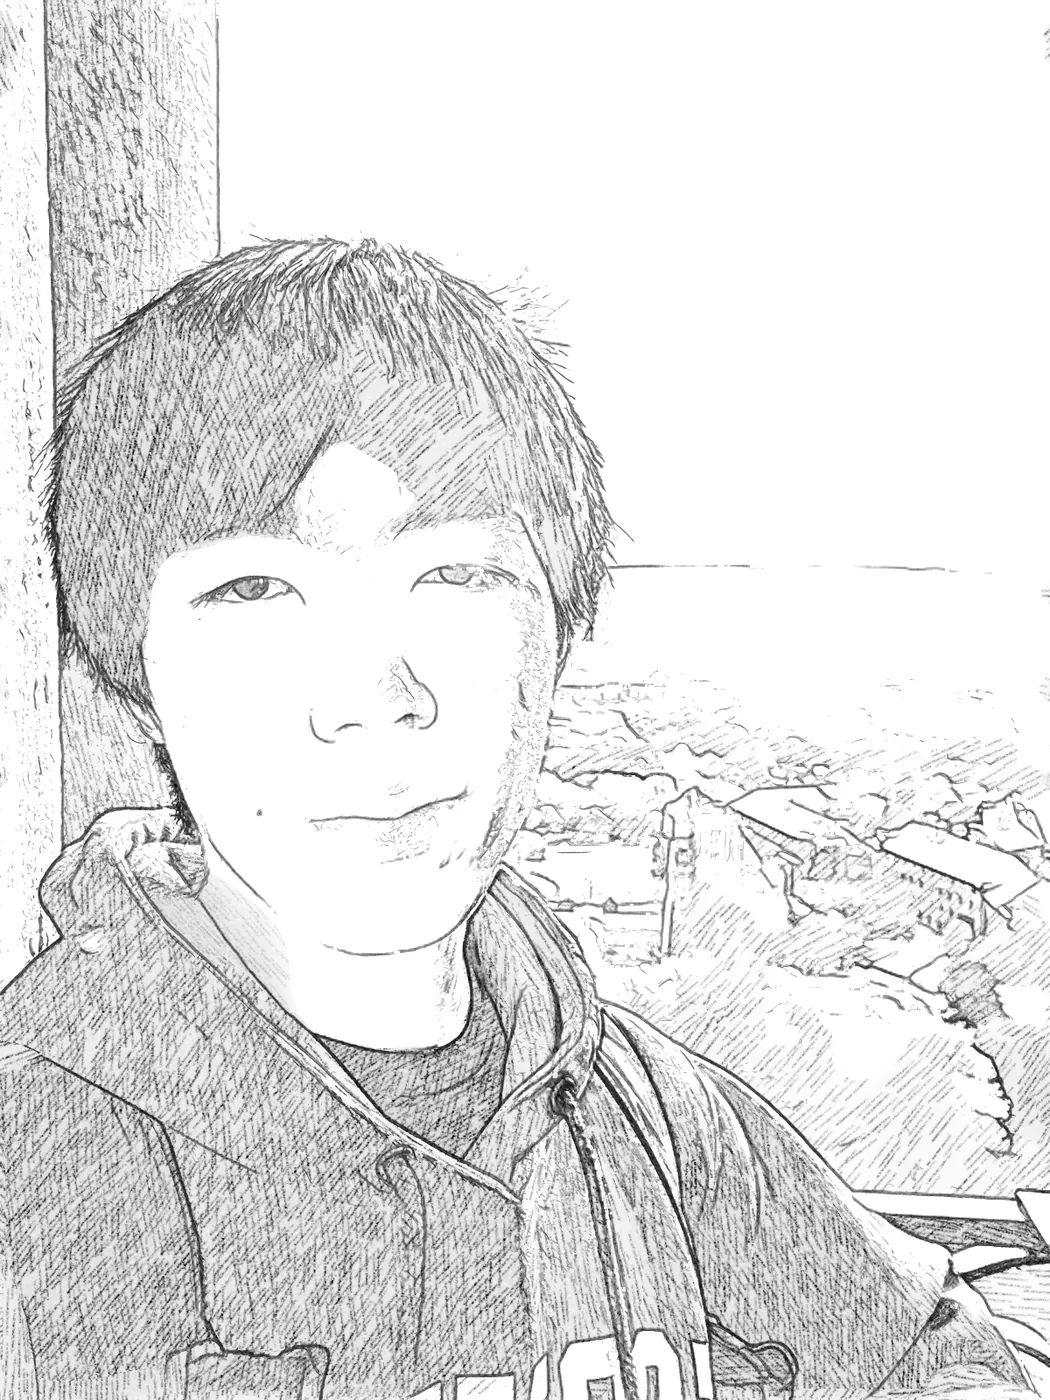
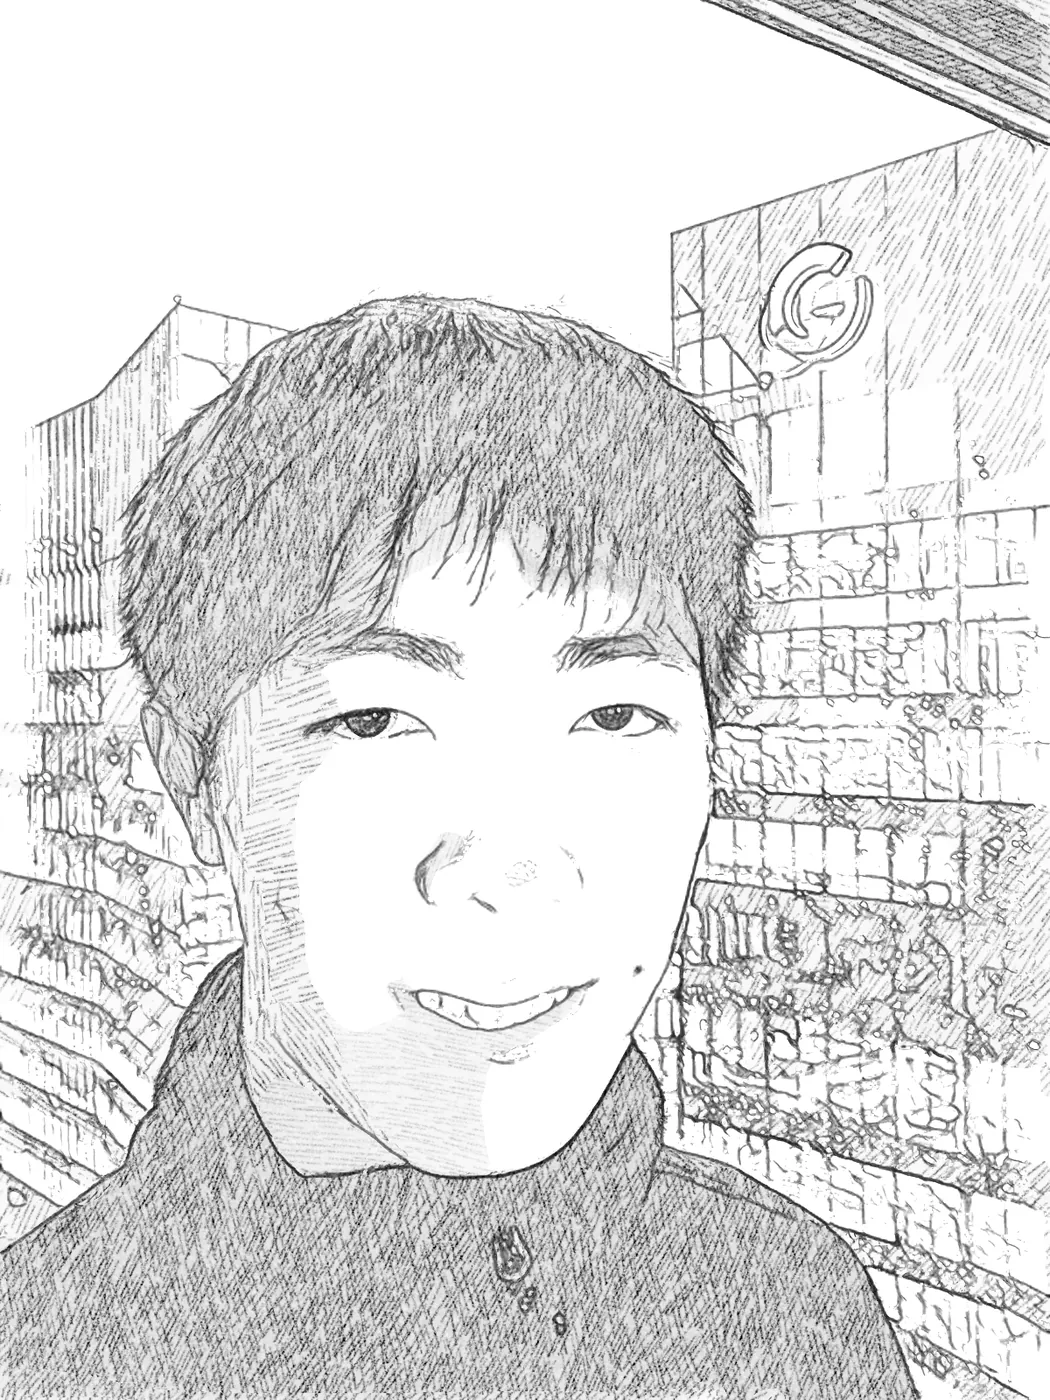
Several pictures at a stop, research figures, and a coffee to end About
A stop can now hold more than one picture: the first stands beside the
line, the rest are turned to on the open page (thumbnails, or up/down).
Plots and screenshots stand as crisp sheets in graphite with their own
colours underneath.

- Research: a figure from each project leads its stop
- SASH: the Six Hops demo screen, the team and the prize
- The Hive: three screenshots of the simulator
- About: the portrait is the selfie in front of Google, mirrored so the
  sign reads right; "Say hello" becomes "Grab me a coffee"
- Drop the GAN tag from the lake-effect project

diff --git a/src/sketchbook/Sketchbook.tsx b/src/sketchbook/Sketchbook.tsx
@@ -1,5 +1,5 @@
 import { useCallback, useEffect, useLayoutEffect, useRef, useState, type CSSProperties, type PointerEvent } from 'react';
-import { ownerName, sectionOrder, sections, type SectionId } from './content';
+import { ownerName, pictures, sectionOrder, sections, type SectionId } from './content';
 import { Engine, lineRange, lineView, type Mode, type Rect } from './engine';
 import './sketchbook.css';
 
@@ -20,6 +20,7 @@ export default function Sketchbook() {
   const [open, setOpen] = useState(false);
   const [walked, setWalked] = useState(false);
   const [travelling, setTravelling] = useState(false);
+  const [turned, setTurned] = useState({ at: '', n: 0 });   // which picture of a stop is showing; every stop opens on its first
 
   useEffect(() => {
     let started = false, moved = false, shown: SectionId = 'about';
@@ -56,6 +57,9 @@ export default function Sketchbook() {
 
   const sec = sections[section], stops = sec.stops, at = Math.min(stop, stops.length - 1), current = stops[at];
   const inPath = mode === 'path';
+  const arts = current ? pictures(current) : [], here = `${section}:${at}`;
+  const pic = turned.at === here ? Math.min(turned.n, arts.length - 1) : 0, art = arts[pic];
+  const turn = (n: number) => setTurned({ at: here, n: (n + arts.length) % arts.length });
 
   // Leave this stop, walk the line, and arrive in another.
   const travel = useCallback(async (to: number) => {
@@ -72,14 +76,19 @@ export default function Sketchbook() {
     const key = (ev: KeyboardEvent) => {
       const e = engine.current; if (!e) return;
       if (ev.key === 'Escape') { if (open) setOpen(false); else void e.close(); return; }
-      if (open) { if (ev.key === 'ArrowRight') void travel(Math.min(stop, stops.length - 1) + 1); if (ev.key === 'ArrowLeft' && stop > 0) void travel(stop - 1); return; }
+      if (open) {
+        if (ev.key === 'ArrowRight') void travel(Math.min(stop, stops.length - 1) + 1);
+        if (ev.key === 'ArrowLeft' && stop > 0) void travel(stop - 1);
+        if (arts.length > 1 && (ev.key === 'ArrowDown' || ev.key === 'ArrowUp')) { ev.preventDefault(); turn(pic + (ev.key === 'ArrowDown' ? 1 : -1)); }
+        return;
+      }
       if (e.mode !== 'path') return;
       const step: Record<string, number> = { ArrowDown: 1.6, ArrowUp: -1.6, PageDown: 6, PageUp: -6, ' ': 6, Home: -1e3, End: 1e3 };
       if (ev.key in step) { ev.preventDefault(); e.walkBy(step[ev.key]); }
     };
     addEventListener('keydown', key);
     return () => removeEventListener('keydown', key);
-  }, [open, stop, stops.length, travel]);
+  });
 
   // The page grows out of the drawing that stood beside the line.
   useLayoutEffect(() => {
@@ -92,6 +101,9 @@ export default function Sketchbook() {
     const id = requestAnimationFrame(() => requestAnimationFrame(() => { fig.style.transition = ''; fig.style.transform = ''; }));
     return () => cancelAnimationFrame(id);
   }, [open, stop, section]);
+
+  // Turning to another picture of the same stop: its strip of colour starts in the same place.
+  useLayoutEffect(() => { band(26); }, [pic]);   // eslint-disable-line react-hooks/exhaustive-deps
 
   // A strip of the photograph through the drawing, parallel to the pencil strokes.
   function band(half: number, animate = false) {
@@ -147,12 +159,26 @@ export default function Sketchbook() {
       </div>
 
       <aside className="sb-plate" aria-hidden={!open}>
-        <figure ref={figure} data-photo={!!current?.art?.photo} data-sheet={!!current?.art?.sheet} style={{ '--ar': current?.art?.ratio ?? 0.75 } as CSSProperties}
-          onPointerMove={move} onPointerDown={hold} onPointerUp={release} onPointerCancel={release}>
-          {current?.art
-            ? <><img src={current.art.sketch} alt={`Pencil drawing: ${current.title}`} draggable={false} />{current.art.photo && <img ref={photo} className="sb-photo" src={current.art.photo} alt="" draggable={false} />}</>
-            : <div className="sb-blank"><b>{number(at)}</b><span className="sb-mono">Not yet drawn</span></div>}
-        </figure>
+        <div className="sb-view" data-many={arts.length > 1}>
+          <figure ref={figure} data-photo={!!art?.photo} data-sheet={!!art?.sheet} style={{ '--ar': art?.ratio ?? 0.75 } as CSSProperties}
+            onPointerMove={move} onPointerDown={hold} onPointerUp={release} onPointerCancel={release}>
+            {art
+              ? <><img key={art.sketch} src={art.sketch} alt={`${art.sheet ? 'Figure' : 'Pencil drawing'}: ${art.caption ?? current.title}`} draggable={false} />
+                {art.photo && <img key={art.photo} ref={photo} className="sb-photo" src={art.photo} alt="" draggable={false} />}</>
+              : <div className="sb-blank"><b>{number(at)}</b><span className="sb-mono">Not yet drawn</span></div>}
+          </figure>
+          {arts.length > 1 && (
+            <div className="sb-pics">
+              <p className="sb-mono">{pic + 1} / {arts.length}{art?.caption ? ` · ${art.caption}` : ''}</p>
+              <div>
+                {arts.map((a, i) => (
+                  <button key={a.sketch} aria-label={`Picture ${i + 1}${a.caption ? `: ${a.caption}` : ''}`} aria-current={i === pic} data-sheet={!!a.sheet}
+                    style={{ '--ar': a.ratio } as CSSProperties} onClick={() => turn(i)}><img src={a.sketch} alt="" draggable={false} /></button>
+                ))}
+              </div>
+            </div>
+          )}
+        </div>
         {current && (
           <div className="sb-notes">
             <p className="sb-mono sb-no">No. {number(at)} / {sec.label}</p>
@@ -162,7 +188,7 @@ export default function Sketchbook() {
             {current.tags && <p className="sb-mono sb-tags">{current.tags.join(' · ')}</p>}
             {current.links && <p className="sb-links">{current.links.map(l => <a key={l.href} href={l.href} target={l.href.startsWith('mailto:') ? undefined : '_blank'} rel="noopener noreferrer">{l.label} <span aria-hidden="true">↗</span></a>)}</p>}
             <div className="sb-rule" />
-            {current.art?.photo && <p className="sb-mono sb-how">Move across the drawing. Hold to see the photograph.</p>}
+            {art?.photo && <p className="sb-mono sb-how">{art.sheet ? 'Move across the figure. Hold to see it in colour.' : 'Move across the drawing. Hold to see the photograph.'}</p>}
             <div className="sb-walk">
               {at > 0 && <button className="sb-mono" onClick={() => void travel(at - 1)}><span aria-hidden="true">←</span> {stops[at - 1].title}</button>}
               <button className="sb-mono sb-next" onClick={() => void travel(at + 1)}>{last ? 'Walk to the end of the line' : <>Next: {stops[at + 1].title}</>} <span aria-hidden="true">→</span></button>

diff --git a/src/sketchbook/content.ts b/src/sketchbook/content.ts
@@ -7,6 +7,7 @@ export interface Art {
   photo?: string;   // the photograph a pencil render was drawn from, same size, shown as a strip of colour
   ratio: number;    // width / height
   sheet?: boolean;  // a document page: stands with crisp edges instead of fading out like a drawing
+  caption?: string; // what this picture is, shown under it when a stop has several
 }
 
 export interface Stop {
@@ -15,7 +16,8 @@ export interface Stop {
   body: string[];
   tags?: string[];
   links?: { href: string; label: string }[];
-  art?: Art;        // stops without art stand as blank sheets until a drawing exists
+  art?: Art;        // the picture that stands beside the line; stops without one stand as blank sheets
+  more?: Art[];     // further pictures, turned to once the stop is open
 }
 
 export interface Section {
@@ -28,11 +30,15 @@ export interface Section {
 
 export type SectionId = 'about' | 'projects' | 'research' | 'resume';
 
-const plate = (name: string, ratio = 0.75): Art => ({
+const plate = (name: string, ratio = 0.75, caption?: string): Art => ({
   sketch: `/sketchbook/plates/${name}_s.webp`,
   photo: `/sketchbook/plates/${name}_p.webp`,
   ratio,
+  caption,
 });
+// A plot or a screenshot: shown whole, in graphite, with its own colours underneath.
+const figure = (name: string, ratio: number, caption?: string): Art => ({ ...plate(name, ratio, caption), sheet: true });
+export const pictures = (stop: Stop): Art[] => (stop.art ? [stop.art, ...(stop.more ?? [])] : []);
 
 const project = (title: string): Stop => {
   const p = projects.find(q => q.title === title)!;
@@ -48,10 +54,10 @@ const aboutStops: Stop[] = [
   { title: 'Where I am', meta: profile.location, body: [`I study ${profile.degree.toLowerCase()} at ${profile.school}. I'm in ${profile.location.replace('; the', ', and the')}.`], art: plate('tower') },
   { title: 'What I am looking for', meta: profile.availability, body: [about.current[1]], art: plate('window') },
   {
-    title: 'Say hello',
+    title: 'Grab me a coffee',
     meta: profile.email,
     body: [sentences(about.contact).slice(-1)[0]],
-    art: plate('hello'),
+    art: plate('coffee'),
     links: [
       { href: `mailto:${profile.email}`, label: profile.email },
       { href: profile.github, label: 'GitHub' },
@@ -71,9 +77,18 @@ const projectStops: Stop[] = [
     ],
     tags: ['TypeScript', 'three.js', 'Vite', 'Cloudflare Workers'],
     links: [{ href: 'https://thehive.boston/', label: 'See The Hive' }],
-    art: plate('hack', 0.667),
+    art: plate('hack', 0.667, 'At the hack'),
+    more: [
+      figure('hive1', 1.982, 'The simulator: scouting a site'),
+      figure('hive2', 1.987, 'Following a scout at night'),
+      figure('hive3', 1.962, 'A scout on its survey path'),
+    ],
   },
-  { ...project('SASH: Search Across Six Hops'), art: plate('sash') },
+  {
+    ...project('SASH: Search Across Six Hops'),
+    art: figure('sixhops', 1.957, 'The demo screen'),
+    more: [plate('sash_team1', 0.75, 'The team, with the prize'), plate('sash_team2', 0.75, 'The team, with the prize'), plate('sash', 0.75, 'The prize')],
+  },
   {
     title: 'Pencil sketches from photographs',
     meta: 'Personal project / 2026',
@@ -97,9 +112,9 @@ const projectStops: Stop[] = [
 
 // Research: work done with a lab or a research group.
 const researchStops: Stop[] = [
-  project('LLM Prediction Markets'),
-  { ...project('Irrigation Data Assimilation'), art: plate('irrigation') },
-  { ...project('Lake-Effect Snow Forecasting'), art: plate('snow', 1.333) },
+  { ...project('LLM Prediction Markets'), art: figure('drift', 1.437, 'Mean forecast as the evidence arrives') },
+  { ...project('Irrigation Data Assimilation'), art: figure('particles', 1.423, 'Soil moisture and inferred irrigation'), more: [plate('irrigation', 0.75, 'Working notes')] },
+  { ...project('Lake-Effect Snow Forecasting'), art: figure('scatter', 1.6, 'Wind speed against temperature'), more: [plate('snow', 1.333, 'First snow on campus')] },
 ];
 
 // Résumé: the two documents, nothing else. Everything in them is already on the other lines.

diff --git a/src/sketchbook/engine.ts b/src/sketchbook/engine.ts
@@ -16,7 +16,7 @@ export interface Callbacks {
 
 type Vec = { x: number; y: number; z: number };
 type Screen = { x: number; y: number; z: number; s: number };
-interface Card { sketch: HTMLCanvasElement; photo?: HTMLCanvasElement; far: HTMLCanvasElement; farPhoto?: HTMLCanvasElement; ratio: number; open: number }
+interface Card { sketch: HTMLCanvasElement; photo?: HTMLCanvasElement; far: HTMLCanvasElement; farPhoto?: HTMLCanvasElement; ratio: number; open: number; behind: number }
 
 // A third-size copy, drawn instead of the full one while the stop is still far off.
 function shrink(src: HTMLCanvasElement) {
@@ -24,8 +24,8 @@ function shrink(src: HTMLCanvasElement) {
   const g = c.getContext('2d')!; g.imageSmoothingQuality = 'high'; g.drawImage(src, 0, 0, c.width, c.height);
   return c;
 }
-function makeCard(sketch: HTMLCanvasElement, ratio: number, photo?: HTMLCanvasElement): Card {
-  return { sketch, photo, far: shrink(sketch), farPhoto: photo && shrink(photo), ratio, open: 0 };
+function makeCard(sketch: HTMLCanvasElement, ratio: number, photo?: HTMLCanvasElement, behind = 0): Card {
+  return { sketch, photo, far: shrink(sketch), farPhoto: photo && shrink(photo), ratio, open: 0, behind };
 }
 
 const GRAPHITE = '38,38,42';
@@ -206,7 +206,8 @@ export class Engine {
       const art = stop.art, h = Math.round(980 * Math.min(1, 1 / art.ratio)), w = Math.round(h * art.ratio);
       this.cards.set(key, makeCard(blankSheet(i, this.sections[id].color), art.ratio));   // until the drawing arrives
       void Promise.all([loadImage(art.sketch), art.photo ? loadImage(art.photo) : null]).then(([s, p]) => {
-        this.cards.set(key, makeCard(art.sheet ? sheet(s, w, h) : feather(s, w, h, 11 + i), art.ratio, p ? feather(p, w, h, 11 + i) : undefined));
+        const stand = (im: HTMLImageElement) => (art.sheet ? sheet(im, w, h) : feather(im, w, h, 11 + i));
+        this.cards.set(key, makeCard(stand(s), art.ratio, p ? stand(p) : undefined, art.sheet ? stop.more?.length ?? 0 : 0));   // a soft-edged drawing has no sheet to stack
         this.dirty = true;
       });
     });
@@ -442,6 +443,11 @@ export class Engine {
       const iw = img.width, ih = img.height, lift = card.open * 0.05 * sc;
       g.save();
       g.transform(w / iw, 0, (s.b.x - s.t.x) / ih, (s.b.y - s.t.y) / ih, s.t.x - w / 2, s.t.y - lift);
+      for (let k = Math.min(card.behind, 2); k > 0; k--) {   // more pictures at this stop: their sheets show behind the first
+        const dx = -s.side * k * iw * 0.045, dy = -k * ih * 0.04;
+        g.fillStyle = '#fff'; g.fillRect(dx, dy, iw, ih);
+        g.strokeStyle = `rgba(${GRAPHITE},.42)`; g.lineWidth = iw * 0.006; g.strokeRect(dx, dy, iw, ih);
+      }
       g.drawImage(img, 0, 0);
       if (pic) {   // one streak of the photograph, parallel to the pencil strokes
         const half = iw * (0.014 + 0.075 * card.open), cx = iw * (0.5 + 0.1 * Math.sin(s.i * 2.4)), dx = Math.cos(50 * Math.PI / 180), dy = -Math.sin(50 * Math.PI / 180), R = ih;
@@ -462,7 +468,7 @@ export class Engine {
         const tw = g.measureText(label).width;
         this.rects.push({ key: s.key, rect: { x: (inner > 0 ? x : x - tw) - 8, y: s.b.y - 0.48 * cs, w: tw + 16, h: 0.56 * cs } });
         g.font = `500 ${Math.max(0.06 * cs, 7)}px "IBM Plex Mono", monospace`;
-        g.fillStyle = sec.color; g.fillText(s.stop ? `NO. ${String(s.i + 1).padStart(2, '0')}` : 'THE END OF THE LINE', x, s.b.y - 0.37 * cs);
+        g.fillStyle = sec.color; g.fillText(s.stop ? `NO. ${String(s.i + 1).padStart(2, '0')}${s.stop.more?.length ? ` · ${s.stop.more.length + 1} PICTURES` : ''}` : 'THE END OF THE LINE', x, s.b.y - 0.37 * cs);
         if (hot) { const tw = Math.min(0.9 * cs, 120); g.fillRect(inner > 0 ? x : x - tw, s.b.y - 0.09 * cs, tw, Math.max(1.5, 0.012 * cs)); }
       }
     }

diff --git a/src/sketchbook/sketchbook.css b/src/sketchbook/sketchbook.css
@@ -62,12 +62,23 @@
 .sb-plate { position: absolute; inset: 0; z-index: 3; background: #fff; display: grid; grid-template-columns: minmax(0, 1.1fr) minmax(320px, .9fr);
             opacity: 0; visibility: hidden; transition: opacity .3s, visibility 0s .3s; overflow: hidden auto; }
 .sb[data-open="true"] .sb-plate { opacity: 1; visibility: visible; transition: opacity .35s; }
-.sb-plate figure { position: relative; margin: 0; align-self: center; justify-self: center; width: min(90%, calc(min(86vh, 1100px) * var(--ar))); aspect-ratio: var(--ar);
+.sb-view { align-self: center; min-width: 0; display: grid; justify-items: center; gap: 16px; }
+.sb-plate figure { position: relative; margin: 0; width: min(90%, calc(min(86vh, 1100px) * var(--ar))); aspect-ratio: var(--ar);
                    transition: transform .65s cubic-bezier(.2, .75, .2, 1); will-change: transform; }
 .sb-plate figure[data-photo="true"] { cursor: crosshair; touch-action: none; }
 .sb-plate img { position: absolute; inset: 0; width: 100%; height: 100%; display: block; user-select: none; }
 .sb-plate figure[data-sheet="true"] { outline: 1.5px solid color-mix(in srgb, var(--graphite) 55%, #fff); }
 .sb-photo { clip-path: polygon(0 0, 0 0, 0 0, 0 0); }
+/* a stop with several pictures: the others wait underneath */
+.sb-view[data-many="true"] figure { width: min(90%, calc(min(70vh, 1100px) * var(--ar))); }
+.sb-pics { display: grid; justify-items: center; gap: 10px; max-width: 90%; }
+.sb-pics p { margin: 0; color: var(--soft); text-align: center; }
+.sb-pics div { display: flex; flex-wrap: wrap; justify-content: center; gap: 10px; }
+.sb .sb-pics button { position: relative; height: 58px; aspect-ratio: var(--ar); padding: 0; opacity: .55; border-bottom: 3px solid transparent; box-sizing: content-box; padding-bottom: 5px; transition: opacity .2s, border-color .2s; }
+.sb .sb-pics button:hover { opacity: 1; }
+.sb .sb-pics button[aria-current="true"] { opacity: 1; border-bottom-color: var(--line); }
+.sb-pics img { position: static; width: 100%; height: 100%; object-fit: cover; }
+.sb-pics button[data-sheet="true"] img { outline: 1px solid color-mix(in srgb, var(--graphite) 45%, #fff); }
 .sb-photo.sweep { transition: clip-path .55s cubic-bezier(.3, .7, .2, 1); }
 .sb-blank { position: absolute; inset: 0; display: grid; place-content: center; justify-items: center; gap: 18px; border: 1.5px solid color-mix(in srgb, var(--graphite) 55%, #fff);
             background: repeating-linear-gradient(-50deg, transparent 0 9px, rgba(38, 38, 42, .05) 9px 10px); }
@@ -94,7 +105,8 @@
 
 @media (max-width: 820px) {
   .sb-plate { grid-template-columns: 1fr; align-content: start; }
-  .sb-plate figure { width: min(86vw, 520px); margin-top: 72px; }
+  .sb-view { margin-top: 72px; }
+  .sb-plate figure, .sb-view[data-many="true"] figure { width: min(86vw, 520px); }
   .sb-notes { padding: 28px 7vw 48px; }
   .sb-map { right: 16px; }
   .sb-lines { left: 18px; gap: 14px; }

diff --git a/src/data/projects.ts b/src/data/projects.ts
@@ -46,7 +46,7 @@ export const projects: Project[] = [
     title: 'Lake-Effect Snow Forecasting',
     description: "I built reusable Python tools to extract, align, and validate weather-model outputs and sensor observations for forecast analysis. The pipeline samples locations, computes temperature and wind features, and reduces repeated spatial lookups. I also developed a PyTorch model to correct short-term forecasts, bringing data preparation and model evaluation into the same workflow.",
     category: 'Data Engineering / ML',
-    tags: ['Python', 'PyTorch', 'GAN', 'HRRR'],
+    tags: ['Python', 'PyTorch', 'HRRR'],
     year: '2025',
     pattern: 'halftone',
     coverImage: '/work-covers/lake-effect-cover.png',

diff --git a/tools/manga/export_site.py b/tools/manga/export_site.py
@@ -5,7 +5,8 @@
 Reads out/book (pencilled frames of the four openings, see book_frames.py), the pencil renders
 (see pencil.py) and the photographs they came from. Writes
   book/<ribbon>/fNN.webp, book/frames.json   the opening animations and their ribbon outlines
-  plates/<name>_s.webp, plates/<name>_p.webp each drawing and the photograph it came from
+  plates/<name>_s.webp, plates/<name>_p.webp each drawing and the photograph it came from;
+                                             for a figure, the plot in graphite and the plot in its own colours
   backdrops/<line>.webp                      a strip of skyline for the horizon of a line, graphite on transparent
 """
 import json
@@ -21,17 +22,32 @@ from mangafy import load_rgb
 PLATES = {
     "street": ("out/skin", "in", "20261108_153927"),
     "hack": ("out/skin", "in", "MITClimateHacks-3"),
-    "portrait": ("out/plates2", "in2", "20261010_175435"),
+    "portrait": ("out/plates2", "in2", "20261106_162855_mirrored"),   # a selfie, turned back so the sign behind reads the right way
     "build": ("out/plates2", "in2", "20261013_230648"),
     "lately": ("out/plates2", "in2", "20261004_145320"),
     "tower": ("out/plates2", "in2", "20261010_174912"),
     "window": ("out/plates2", "in2", "20261011_144948"),
-    "hello": ("out/plates2", "in2", "20261006_000110"),
+    "coffee": ("out/plates2", "in2", "20260906_202003"),   # the guest wifi password on the table card is smudged in the source
     "sash": ("out/plates2", "in2", "20261004_120912"),
     "irrigation": ("out/plates2", "in2", "20260629_090842"),
     "snow": ("out/plates2", "in2", "20251110_103749"),
+    "sash_team1": ("out/plates2", "in2", "20261004_115301"),
+    "sash_team2": ("out/plates2", "in2", "20261004_115323"),
 }
 LONG_SIDE = 1400
+# Figures from the research itself: shown as they are, in graphite, with their colours underneath.
+# name on the site -> (picture, whether the graphite version is turned light-on-dark to dark-on-light)
+FIGURES = {
+    "drift": ("out/paper/figure1.png", False),         # figure 1 of the forecasting paper, lifted from the PDF onto white
+    "particles": ("in3/irrigation_plot.png", False),   # as supplied
+    "scatter": ("in3/lake_effect.png", False),         # black bars cut off, then stretched back from 1600 to 1920 wide (the dots are round again)
+    "sixhops": ("in3/sixhops.png", True),              # the Six Hops demo screen: a dark screen, so its graphite version is drawn on white
+    "hive1": ("in3/hive1.png", False),                 # screenshots of The Hive's simulator
+    "hive2": ("in3/hive2.png", False),
+    "hive3": ("in3/hive3.png", False),
+}
+FIGURE_SIDE = 2000   # larger than a drawing: the lettering has to stay readable. Never enlarged.
+GRAPHITE = 38        # the darkest a figure gets, so its black sits with the pencil
 # line -> (pencil render with alpha, top and bottom of the strip as fractions of its height)
 BACKDROPS = {
     "about": ("out/bg/20261010_182154__pencil_alpha.png", 0.615, 0.745),    # Ithaca and its ridge, from the clock tower
@@ -71,6 +87,17 @@ def main():
         sketch.resize(size, Image.LANCZOS).save(out / f"plates/{name}_s.webp", quality=80, method=6)
         photo.resize(size, Image.LANCZOS).save(out / f"plates/{name}_p.webp", quality=82, method=6)
         print(name, size, round(size[0] / size[1], 3))
+    for name, (src, negative) in FIGURES.items():
+        colour = Image.open(src).convert("RGB")
+        k = min(1.0, FIGURE_SIDE / max(colour.size))
+        colour = colour.resize((round(colour.width * k), round(colour.height * k)), Image.LANCZOS)
+        grey = np.asarray(colour.convert("L")).astype(np.float32)
+        if negative:
+            grey = 255 - grey
+        grey = Image.fromarray((GRAPHITE + grey * (255 - GRAPHITE) / 255).astype(np.uint8), "L")
+        grey.save(out / f"plates/{name}_s.webp", quality=84, method=6)
+        colour.save(out / f"plates/{name}_p.webp", quality=86, method=6)
+        print("figure", name, colour.size, round(colour.width / colour.height, 3))
     (out / "backdrops").mkdir(parents=True, exist_ok=True)
     for line, (src, top, bottom) in BACKDROPS.items():
         strip = backdrop(src, top, bottom)
